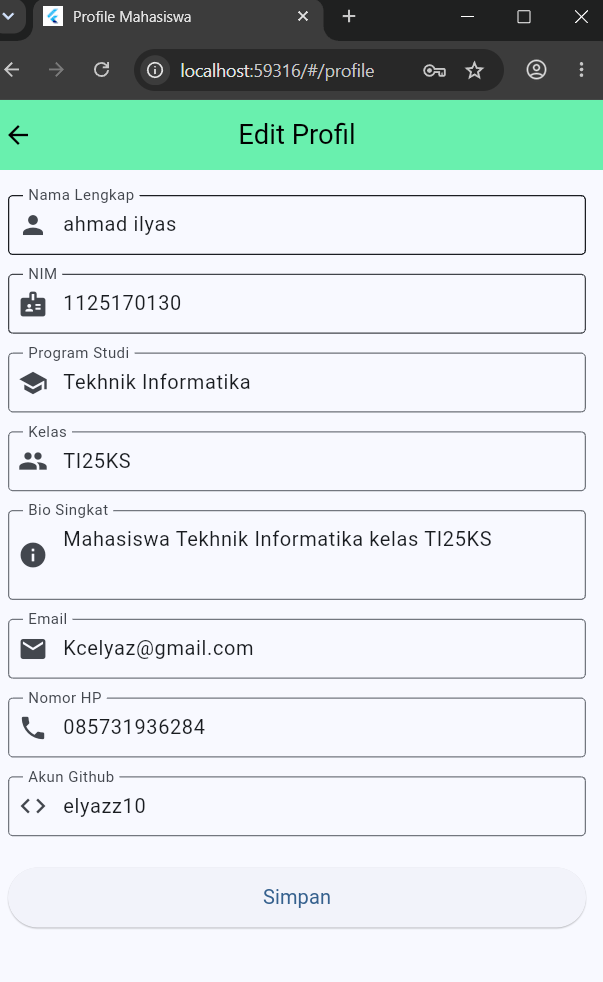
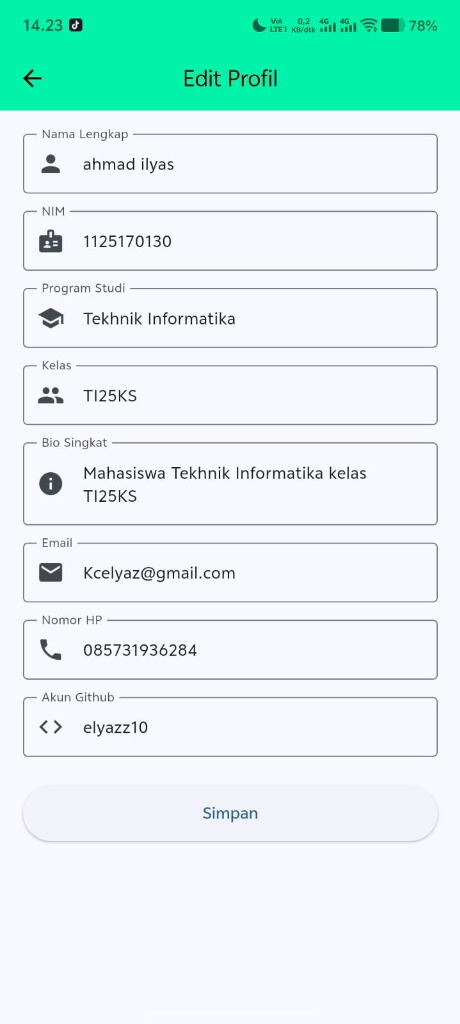
docs: perbarui screenshot aplikasi langsung dari HP Android

Changed region(s): [[0.0, 0.0, 1.0, 0.8554], [0.4261, 0.8859, 0.5478, 0.947], [0.9435, 0.8248, 0.9739, 0.8554]]

diff --git a/README.md b/README.md
@@ -21,6 +21,9 @@ Repositori tugas UTS Pemrograman Mobile.
 ### 3. Halaman Edit Profil
 ![Edit Profil](soal2_profile_app/assets/screenshots/edit_profile.png)
 
+### 4. Halaman Tentang Saya
+![Tentang Saya](soal2_profile_app/assets/screenshots/about.png)
+
 ## Fitur Aplikasi (Soal 2)
 - Halaman Login ada validasi input dan loading
 - Halaman Profil ada foto diri dari asset, data diri mahasiswa, dan kontak
